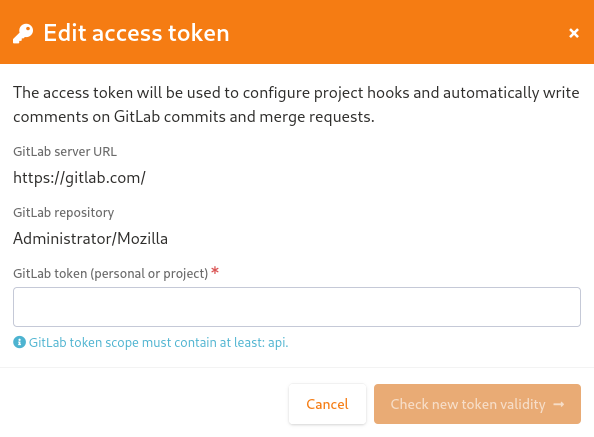
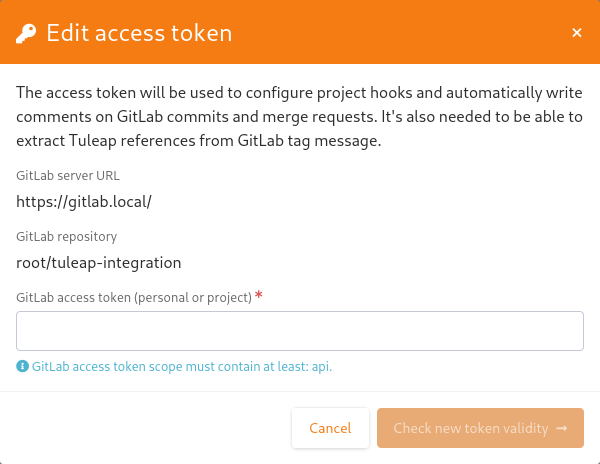
Add documentation about GitLab tag integration
This is part of request #20918 GitLab tags that contains a reference to Tuleap should be backlinked

diff --git a/languages/en/user-guide/code-versioning/gitlab.rst b/languages/en/user-guide/code-versioning/gitlab.rst
@@ -14,7 +14,7 @@ allow you to reference Tuleap artifacts in your commit messages or merge request
 References
 ----------
 
-A GitLab commit or merge request can reference several Tuleap artifacts, in different projects.
+A GitLab commit, tag or merge request can reference several Tuleap artifacts, in different projects.
 A Tuleap artifact can reference several commits or merge requests, in different GitLab repositories.
 
 Reference a Tuleap artifact
@@ -25,8 +25,9 @@ To be able to create GitLab cross-references, you need to:
 * Register your GitLab repository in the Git service of your Tuleap project
 * Reference Tuleap artifacts in GitLab commit messages
 * Reference Tuleap artifacts in GitLab merge request title or description
+* Reference Tuleap artifacts in GitLab tag message
 
-To link your commit (or merge request) to the Tuleap artifact of your choice, you must add the keyword ``TULEAP-<artifact_id>`` (case-sensitive)
+To link your commit (or merge request or tag) to the Tuleap artifact of your choice, you must add the keyword ``TULEAP-<artifact_id>`` (case-sensitive)
 to your commit message (or merge request title/description).
 You can reference as many artifacts as you want in the same commit message (or merge request title/description).
 
@@ -65,6 +66,16 @@ A comment is composed of a list of Tuleap references included in the merge reque
    :alt: Comment on GitLab merge request
    :name: Comment on GitLab merge request
 
+Reference a Tuleap artifact in GitLab tag message
+`````````````````````````````````````````````````
+
+The Tuleap reference will display the tag name, the tag message and the associated commit SHA-1.
+
+.. note::
+    If the tag is moved, all previous information will be deleted on Tuleap side and recreated with new ones.
+
+On GitLab side, no backlink is added.
+
 Reference a GitLab commit or merge request
 ''''''''''''''''''''''''''''''''''''''''''
 
@@ -93,6 +104,17 @@ To reference GitLab merge request, you have to use the keyword ``gitlab_mr`` fol
 ``<repository_name>`` must be a registered GitLab repository. If not, no reference will be created.
 
 When you click on this reference, you will be redirected to your GitLab instance, on the page displaying the merge request details.
+
+Reference a GitLab tag in Tuleap
+``````````````````````````````````````````
+
+To reference GitLab tag, you have to use the keyword ``gitlab_tag`` followed by a ``#``, the repository name, and the tag name:
+
+``gitlab_tag #<repository_name>/<tag_name>``
+
+``<repository_name>`` must be a registered GitLab repository. If not, no reference will be created.
+
+When you click on this reference, you will be redirected to your GitLab instance, on the page displaying the commit tagged with ``<tag_name>``.
 
 Register your GitLab repository
 -------------------------------
